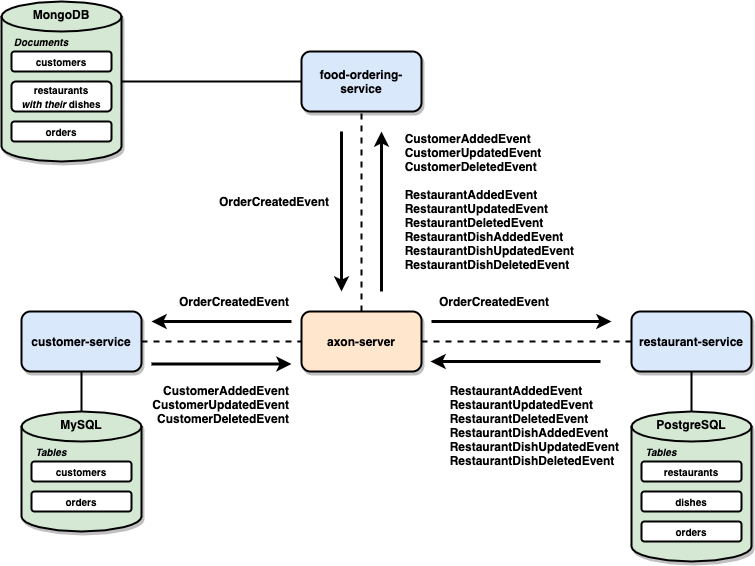
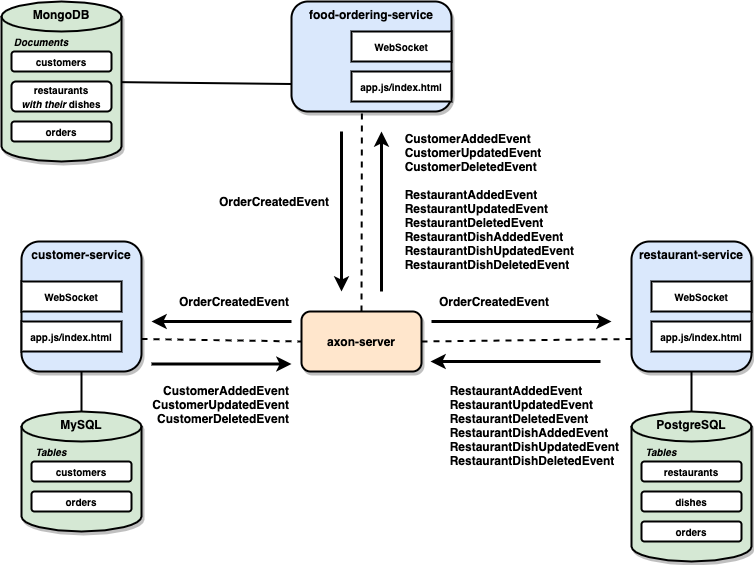
changes - add order view in restaurant-service; - add gif demo; - add new images of the services UI; - small code refactor; - update README.

diff --git a/restaurant-service/src/main/resources/static/app.js b/restaurant-service/src/main/resources/static/app.js
@@ -1,9 +1,8 @@
-let stompClient = null
 const restaurantServiceApiBaseUrl = "http://localhost:9081/api/restaurants"
 
 function connectToWebSocket() {
     const socket = new SockJS('/websocket')
-    stompClient = Stomp.over(socket)
+    const stompClient = Stomp.over(socket)
 
     stompClient.connect({},
         function (frame) {
@@ -48,7 +47,7 @@ function loadRestaurants() {
         success: function(data, textStatus, jqXHR) {
             data.forEach(restaurant => {
                 addRestaurant(restaurant)
-                restaurant.dishes.map(function(dish) {
+                restaurant.dishes.map(dish => {
                     return {restaurantId: restaurant.id, dishId: dish.id, dishName: dish.name, dishPrice: dish.price}
                 })
                 .map(dish => addRestaurantDish(dish))
@@ -63,14 +62,15 @@ function addRestaurant(restaurant) {
         '<div id="'+restaurant.id+'" class="item">'+
             '<div class="content">'+
                 '<div class="ui grid">'+
-                    '<div class="four wide column">'+
+                    '<div class="six wide column">'+
                         '<button class="btnDelete ui tiny red icon button"><i class="icon trash alternate"></i></button>'+
                         '<button class="btnEdit ui tiny orange icon button"><i class="icon edit"></i></button>'+
                         '<button class="btnAddDish ui tiny teal labeled icon button">'+
                             '<i class="plus icon"></i>Dish'+
-                         '</button>'+
+                        '</button>'+
+                        '<button class="btnOrders ui tiny violet button">Orders</button>'+
                     '</div>'+
-                    '<div class="six wide center aligned column">'+
+                    '<div class="four wide center aligned column">'+
                         '<h3>'+restaurant.name+'</h3>'+
                     '</div>'+
                     '<div class="six wide right aligned column">'+
@@ -189,6 +189,43 @@ function hideRestaurantDishForm() {
     $('#restaurantDishForm').css('display', 'none')
 }
 
+function buildRestaurantOrderTable(data) {
+    const orders = data.map(order => {
+        const items = order.items
+            .map(item => item.quantity + "x " + item.dishName + " " + accounting.formatMoney(item.dishPrice) + " (" + accounting.formatMoney(item.quantity*item.dishPrice) + ")")
+            .map(description => '<li>' + description + '</li>')
+            .join('')
+        return (
+            '<tr>'+
+                '<td>'+order.id+'</td>'+
+                '<td>'+moment(order.createdAt).format('YYYY-MM-DD HH:mm:ss')+'</td>'+
+                '<td>'+order.status+'</td>'+
+                '<td><strong>'+order.customerName+'</strong></td>'+
+                '<td><strong>'+order.customerAddress+'</strong></td>'+
+                '<td>'+accounting.formatMoney(order.total)+'</td>'+
+                '<td><ul class="ui list">'+items+'</ul></td>'+
+            '</tr>'
+        )
+    }).join('')
+
+    return (
+        '<table id="orderTable" class="ui seven column striped very compact table">'+
+            '<thead>'+
+            '<tr>'+
+                '<th>ID</th>'+
+                '<th>CreatedAt</th>'+
+                '<th>Status</th>'+
+                '<th>Customer Name</th>'+
+                '<th>Customer Address</th>'+
+                '<th>Total</th>'+
+                '<th>Items</th>'+
+            '</tr>'+
+            '</thead>'+
+            '<tbody>'+orders+'</tbody>'+
+        '</table>'
+    )
+}
+
 function showModal($modal, header, description, fnApprove) {
     $modal.find('.header').text(header)
     $modal.find('.content').text(description)
@@ -265,6 +302,23 @@ $(function () {
         hideRestaurantForm()
     })
 
+    $('#restaurantList').on('click', '.btnOrders', function() {
+        const $restaurant = $(this).closest('div.item')
+        const restaurantId = $restaurant.attr('id')
+        const restaurantName = $restaurant.find('h3').text()
+
+        $.ajax({
+            url: restaurantServiceApiBaseUrl.concat("/", restaurantId, "/orders"),
+            success: function(data, textStatus, jqXHR) {
+                const $modal = $('.modal.orders')
+                $modal.find('.header').text(restaurantName + " orders")
+                $modal.find('.content').empty().append(buildRestaurantOrderTable(data))
+                $modal.modal('show')
+            },
+            error: function (jqXHR, textStatus, errorThrown) {}
+        })
+    })
+
     $('#restaurantForm button[name="btnCancel"]').click(function() {
         resetRestaurantForm()
     })
@@ -338,7 +392,7 @@ $(function () {
         })
     })
 
-    $('.connWebSocket').click(function(event) {
+    $('.connWebSocket').click(function() {
         connectToWebSocket()
     })
 

diff --git a/customer-service/src/main/resources/static/app.js b/customer-service/src/main/resources/static/app.js
@@ -1,9 +1,8 @@
-let stompClient = null
 const customerServiceApiBaseUrl = "http://localhost:9080/api/customers"
 
 function connectToWebSocket() {
     const socket = new SockJS('/websocket')
-    stompClient = Stomp.over(socket)
+    const stompClient = Stomp.over(socket)
 
     stompClient.connect({},
         function (frame) {
@@ -44,16 +43,10 @@ function loadCustomers() {
                     url: customerServiceApiBaseUrl.concat("/", customer.id, "/orders"),
                     contentType: "application/json",
                     success: function(data, textStatus, jqXHR) {
-                        data.map(function(order) {
-                            return {
-                                customerId: customer.id,
-                                id: order.id,
-                                createdAt: order.createdAt,
-                                status: order.status,
-                                restaurantName: order.restaurantName,
-                                total: order.total,
-                                items: order.items
-                            }
+                        data.map(order => {
+                            let orderCopy = { ... order }
+                            orderCopy['customerId'] = customer.id
+                            return orderCopy
                         })
                         .forEach(order => addOrder(order))
                     },
@@ -100,7 +93,7 @@ function getOrderRow(order) {
         .map(description => '<li>' + description + '</li>')
         .join('')
     return (
-        '<tr id="'+order.id+'">'+
+        '<tr>'+
             '<td>'+order.id+'</td>'+
             '<td>'+moment(order.createdAt).format('YYYY-MM-DD HH:mm:ss')+'</td>'+
             '<td>'+order.status+'</td>'+
@@ -112,8 +105,9 @@ function getOrderRow(order) {
 }
 
 function updateCustomer(customer) {
-    $('#'+customer.id).find('h3.id').text(customer.name)
-    $('#'+customer.id).find('p.address > strong').text(customer.address)
+    const $customer = $('#'+customer.id)
+    $customer.find('h3.id').text(customer.name)
+    $customer.find('p.address > strong').text(customer.address)
 }
 
 function removeCustomer(customer) {
@@ -219,7 +213,7 @@ $(function () {
         resetForm()
     })
 
-    $('.connWebSocket').click(function(event) {
+    $('.connWebSocket').click(function() {
         connectToWebSocket()
     })
 })

diff --git a/restaurant-service/src/main/resources/templates/index.html b/restaurant-service/src/main/resources/templates/index.html
@@ -22,7 +22,7 @@
     <div class="ui container">
         <div class="ui divider"></div>
         <div class="ui grid">
-            <div class="four wide column">
+            <div class="three wide column">
                 <form id="restaurantForm" class="ui form">
                     <div class="field disabled">
                         <label>Restaurant ID</label>
@@ -60,8 +60,17 @@
                     </div>
                 </form>
             </div>
-            <div class="twelve wide column">
+            <div class="thirteen wide column">
                 <div id="restaurantList" class="ui relaxed divided list"></div>
+            </div>
+        </div>
+
+        <!-- Orders Modal -->
+        <div class="ui large modal orders">
+            <div class="header"></div>
+            <div class="content"></div>
+            <div class="actions">
+                <div class="ui positive button">Ok</div>
             </div>
         </div>
 
@@ -90,6 +99,7 @@
 <script src="https://cdnjs.cloudflare.com/ajax/libs/jquery/3.5.1/jquery.min.js"></script>
 <script src="https://cdnjs.cloudflare.com/ajax/libs/sockjs-client/1.4.0/sockjs.min.js"></script>
 <script src="https://cdnjs.cloudflare.com/ajax/libs/stomp.js/2.3.3/stomp.min.js"></script>
+<script src="https://cdnjs.cloudflare.com/ajax/libs/moment.js/2.27.0/moment.min.js"></script>
 <script src="https://cdnjs.cloudflare.com/ajax/libs/accounting.js/0.4.1/accounting.min.js"></script>
 <script src="https://cdnjs.cloudflare.com/ajax/libs/semantic-ui/2.4.1/semantic.min.js"></script>
 <script src="/app.js"></script>

diff --git a/food-ordering-service/src/main/resources/static/app.js b/food-ordering-service/src/main/resources/static/app.js
@@ -1,9 +1,8 @@
-let stompClient = null
 const foodOrderingServiceApiBaseUrl = "http://localhost:9082/api"
 
 function connectToWebSocket() {
     const socket = new SockJS('/websocket')
-    stompClient = Stomp.over(socket)
+    const stompClient = Stomp.over(socket)
 
     stompClient.connect({},
         function (frame) {
@@ -77,7 +76,7 @@ function loadRestaurants() {
         success: function(data, textStatus, jqXHR) {
             data.forEach(restaurant => {
                 addRestaurant(restaurant)
-                restaurant.dishes.map(function(dish) {
+                restaurant.dishes.map(dish => {
                     return {restaurantId: restaurant.id, dishId: dish.id, dishName: dish.name, dishPrice: dish.price}
                 })
                 .map(dish => addRestaurantDish(dish))
@@ -297,7 +296,7 @@ $(function () {
         handlePreviewTotalOrder($(this))
     })
 
-    $('.connWebSocket').click(function(event) {
+    $('.connWebSocket').click(function() {
         connectToWebSocket()
     })
 })

diff --git a/README.md b/README.md
@@ -10,21 +10,33 @@ The goal of this project is play with [`Axon`](https://axoniq.io/). For it, we w
 
 - ### customer-service
 
-  `Spring Boot` application that exposes a REST API to manage `Customers`. This service was implemented using `Axon Framework`. Everytime a customer is added, updated or deleted, the service emits the respective event, i.e, `CustomerAddedEvent`, `CustomerUpdatedEvent` or `CustomerDeletedEvent`.
+  `Spring Boot` application that exposes a REST API to manage `Customers`. It also has a UI implemented using `Javascript`, `JQuery` and `Semantic UI`.
+  
+  ![customer-service](images/customer-service.png)
+  
+  `customer-service` was implemented using `Axon Framework`. Everytime a customer is added, updated or deleted, the service emits the respective event, i.e, `CustomerAddedEvent`, `CustomerUpdatedEvent` or `CustomerDeletedEvent`.
   
   `customer-service` uses `MySQL` to store customers data. Besides, it listens to order events, collects the order information that it needs and stores them in an order table present in its own database, so that it doesn't need to call another service to get this information.
 
 - ### restaurant-service
 
-  `Spring Boot` application that exposes a REST API to manage `Restaurants`. This service was implemented using `Axon Framework`. Everytime a restaurant is added, updated or deleted, the service emits the respective event, i.e, `RestaurantAddedEvent`, `RestaurantUpdatedEvent` or `RestaurantDeletedEvent`. The same applies to the restaurant dishes, whose events are: `RestaurantDishAddedEvent`, `RestaurantDishUpdatedEvent` or `RestaurantDishDeletedEvent` 
+  `Spring Boot` application that exposes a REST API to manage `Restaurants`. It also has a UI implemented using `Javascript`, `JQuery` and `Semantic UI`.
+  
+  ![restaurant-service](images/restaurant-service.png)
+  
+  `restaurant-service` was implemented using `Axon Framework`. Everytime a restaurant is added, updated or deleted, the service emits the respective event, i.e, `RestaurantAddedEvent`, `RestaurantUpdatedEvent` or `RestaurantDeletedEvent`. The same applies to the restaurant dishes, whose events are: `RestaurantDishAddedEvent`, `RestaurantDishUpdatedEvent` or `RestaurantDishDeletedEvent` 
   
   `restaurant-service` uses `PostgreSQL` to store restaurant/dish data. Besides, it listens to order events, collects the order information that it needs and stores them in an order table present in its own database, so that it doesn't need to call another service to get this information.
   
 - ### food-ordering-service
 
-  `Spring Boot` application that exposes a REST API to manage `Orders`. This service was implemented using `Axon Framework`. Everytime an order is created, the service emits the respective event, i.e, `OrderCreatedEvent`.
+  `Spring Boot` application that exposes a REST API to manage `Orders`. It has a UI implemented using `Javascript`, `JQuery` and `Semantic UI`.
   
-  `food-ordering-service` uses `MongoDB` to store order data. Besides, it listens to customer and restaurant events, collects the information that it needs and stores them in a customer or restaurant/dish table present in this own database, so that it doesn't need to call another service to get this information.
+  ![food-ordering-service](images/food-ordering-service.png)
+  
+  `food-ordering-service` was implemented using `Axon Framework`. Everytime an order is created, the service emits the respective event, i.e, `OrderCreatedEvent`.
+  
+  `food-ordering-service` uses `MongoDB` to store order data. Besides, it listens to customer and restaurant/dish events, collects the information that it needs and stores them in a customer or restaurant/dish table present in this own database, so that it doesn't need to call another service to get this information.
 
 - ### axon-event-commons
 
@@ -80,6 +92,12 @@ Inside `axon-springboot-websocket` root folder, run the following commands in di
 | restaurant-service    | http://localhost:9081/swagger-ui.html |
 | food-ordering-service | http://localhost:9082/swagger-ui.html |
 
+## Demo
+
+The GIF below shows a user creating a customer in `customer-service` UI. Then, in `restaurant-service` UI, he creates a restaurant and adds a dish. Finally, using `food-ordering-service` UI, he submits an order using the customer and restaurant/dish created. Note that as soon as a customer or restaurant/dish is created, an event is sent and, the consumer of this event updates its UI in realtime using WebSockets.
+
+![demo](images/demo.gif)
+
 ## Useful Commands & Links
 
 - **Axon Server**
@@ -123,11 +141,6 @@ Inside `axon-springboot-websocket` root folder, run the following commands in di
   ```
   docker-compose down -v
   ```
-
-## TODO
-
-- add order in restaurant-service;
-- use axios for ajax calls;
 
 ## References
 
